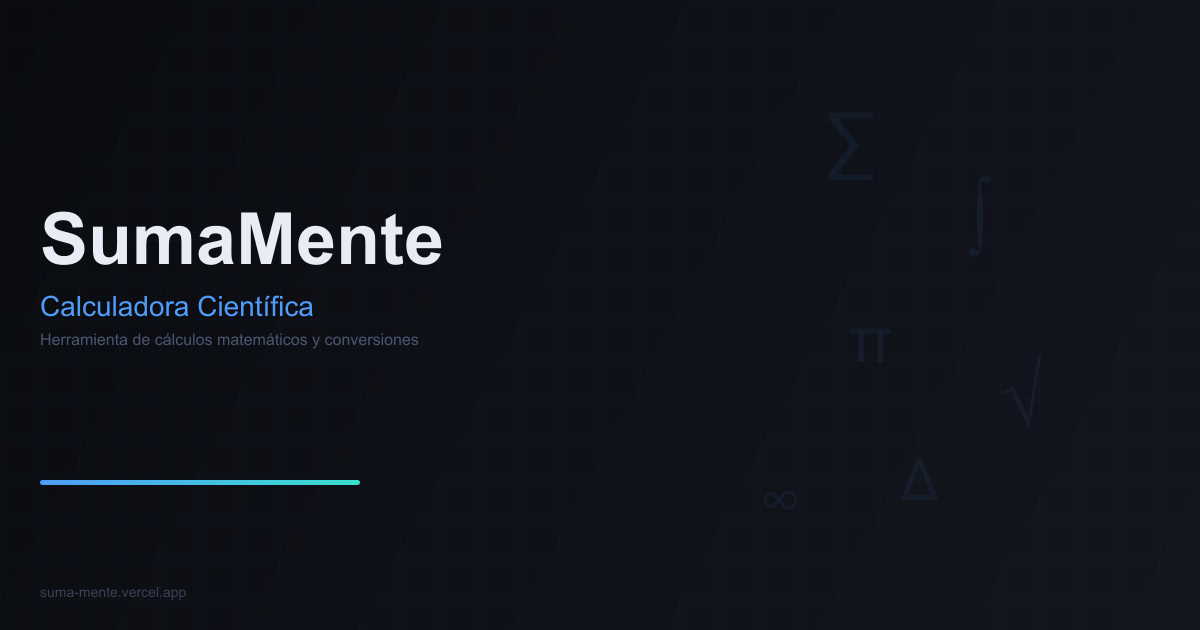
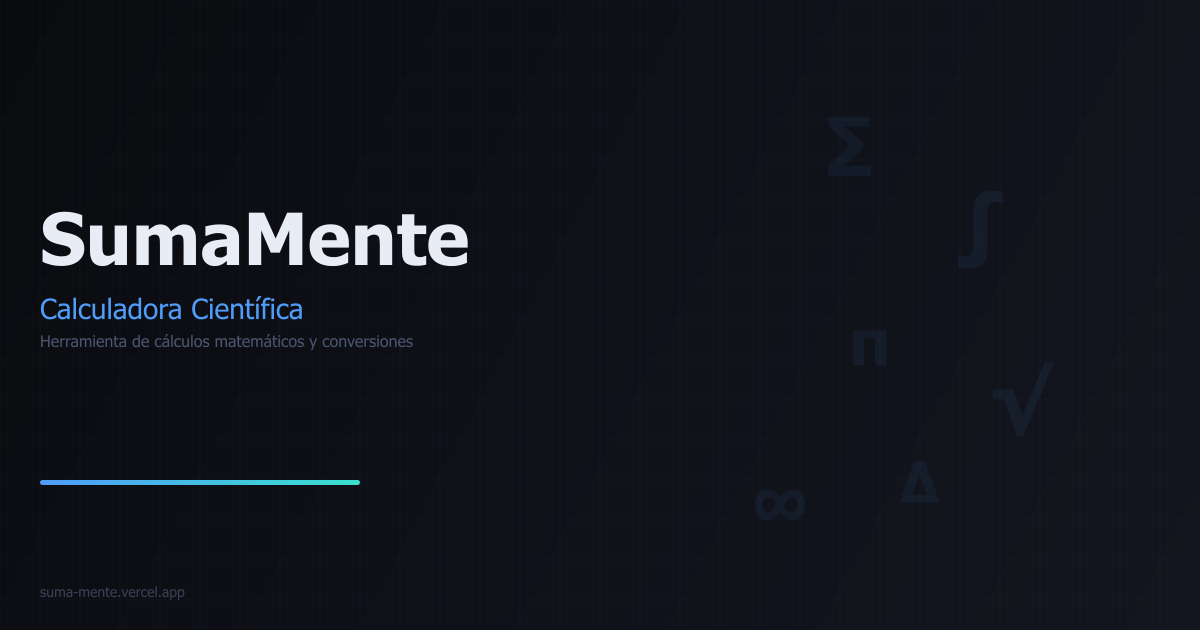
fix: og-image script cross-platform, registerFont solo en Windows

diff --git a/scripts/generate-og-image.js b/scripts/generate-og-image.js
@@ -2,8 +2,10 @@ const { createCanvas, registerFont } = require('canvas');
 const fs = require('fs');
 const path = require('path');
 
-registerFont('C:\\Windows\\Fonts\\arialbd.ttf', { family: 'Arial Bold' });
-registerFont('C:\\Windows\\Fonts\\arial.ttf', { family: 'Arial' });
+if (process.platform === 'win32') {
+  try { registerFont('C:\\Windows\\Fonts\\arialbd.ttf', { family: 'Arial Bold' }); } catch {}
+  try { registerFont('C:\\Windows\\Fonts\\arial.ttf', { family: 'Arial' }); } catch {}
+}
 
 const W = 1200;
 const H = 630;
@@ -45,7 +47,7 @@ const symbols = [
 ctx.textAlign = 'center';
 ctx.textBaseline = 'middle';
 for (const sym of symbols) {
-  ctx.font = `bold ${sym.size}px 'Arial'`;
+  ctx.font = `bold ${sym.size}px sans-serif`;
   ctx.fillStyle = 'rgba(79, 156, 249, 0.07)';
   ctx.fillText(sym.char, sym.x, sym.y);
 }
@@ -61,22 +63,22 @@ ctx.fill();
 
 ctx.textAlign = 'left';
 ctx.textBaseline = 'bottom';
-ctx.font = "72px 'Arial Bold'";
+ctx.font = "bold 72px sans-serif";
 ctx.fillStyle = '#e8edf5';
 ctx.fillText('SumaMente', 40, 280);
 
 ctx.textBaseline = 'top';
-ctx.font = "28px 'Arial'";
+ctx.font = "28px sans-serif";
 ctx.fillStyle = '#4f9cf9';
 ctx.fillText('Calculadora Cient\u00EDfica', 40, 290);
 
 ctx.textBaseline = 'top';
-ctx.font = "16px 'Arial'";
+ctx.font = "16px sans-serif";
 ctx.fillStyle = '#4a5570';
 ctx.fillText('Herramienta de c\u00E1lculos matem\u00E1ticos y conversiones', 40, 330);
 
 ctx.textBaseline = 'bottom';
-ctx.font = "14px 'Arial'";
+ctx.font = "14px sans-serif";
 ctx.fillStyle = '#3a4155';
 ctx.fillText('suma-mente.vercel.app', 40, H - 30);
 